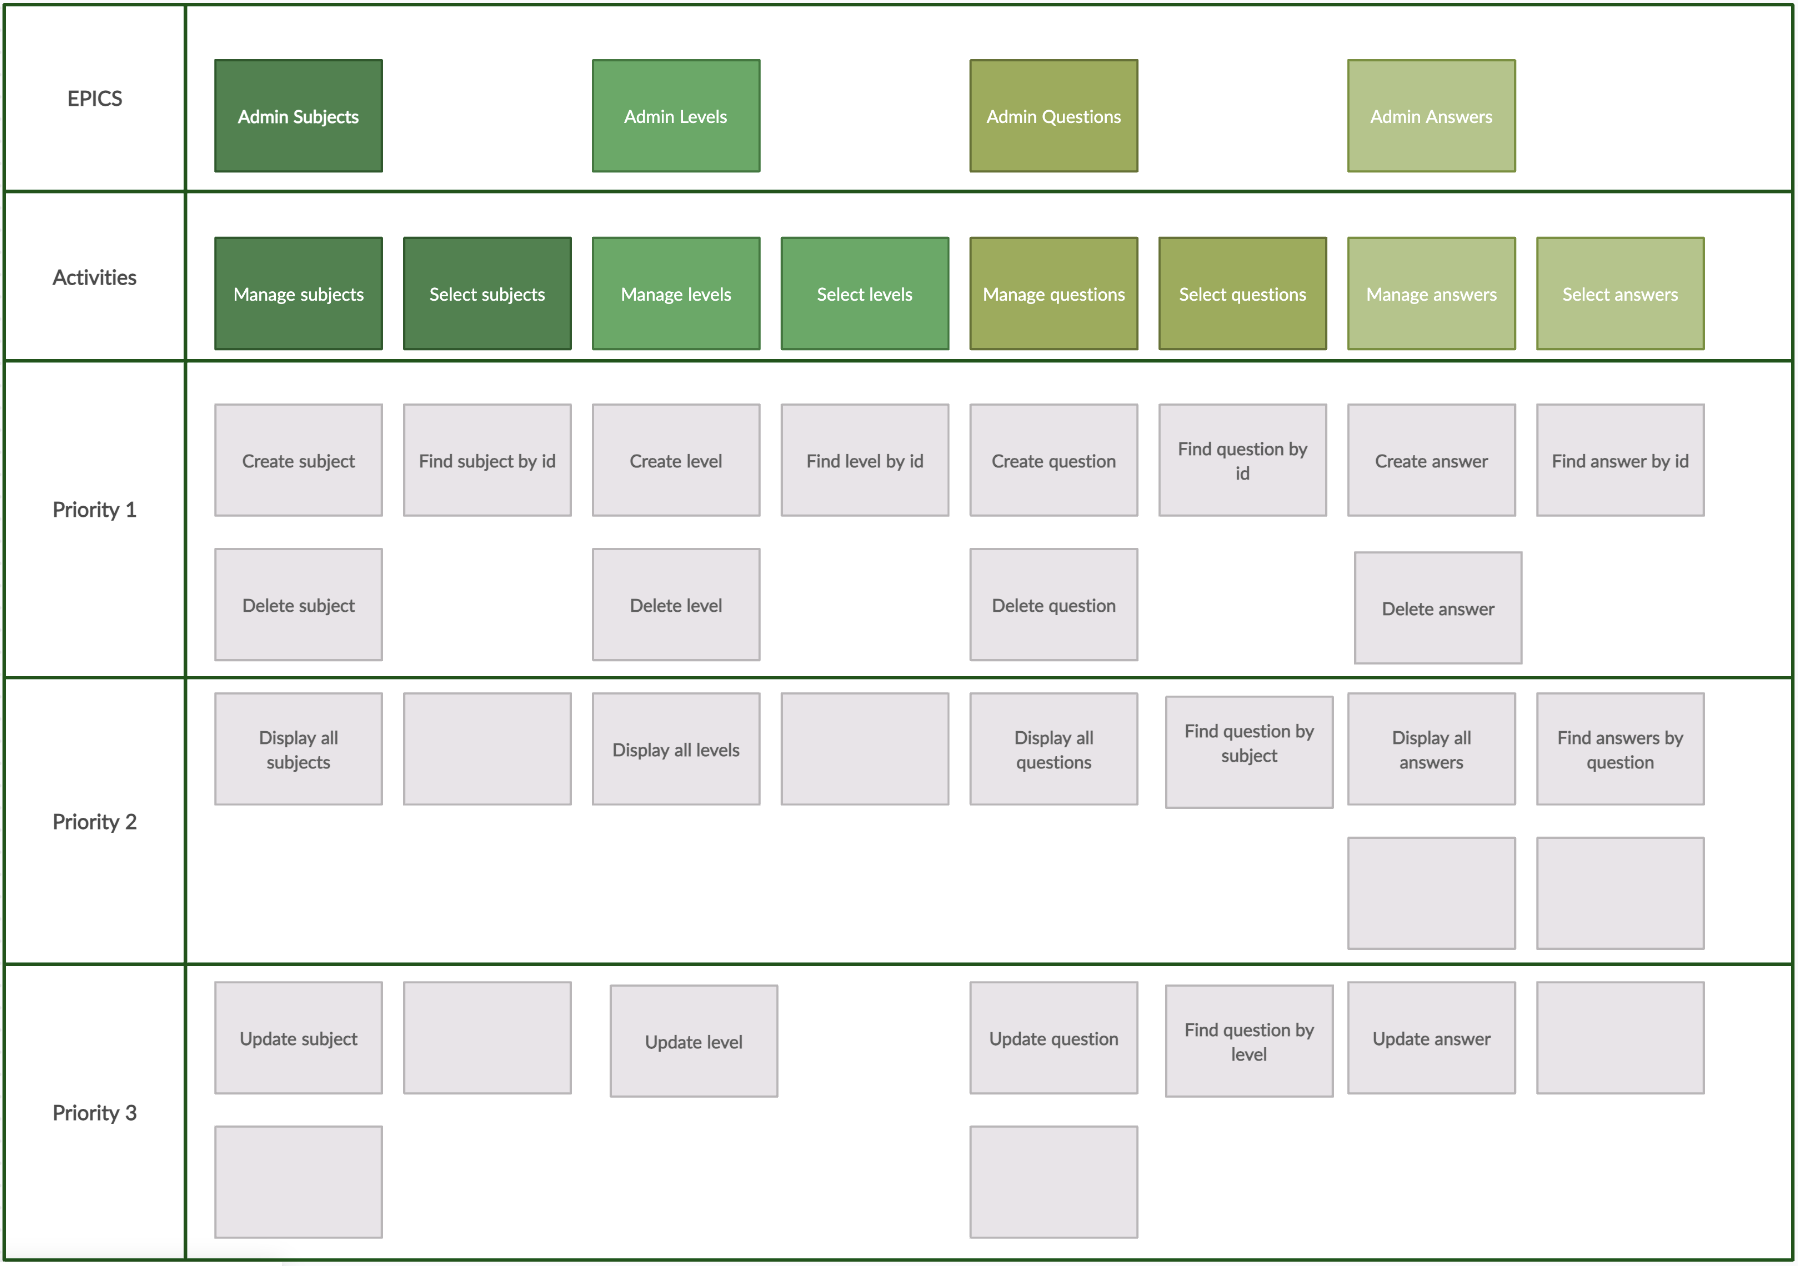
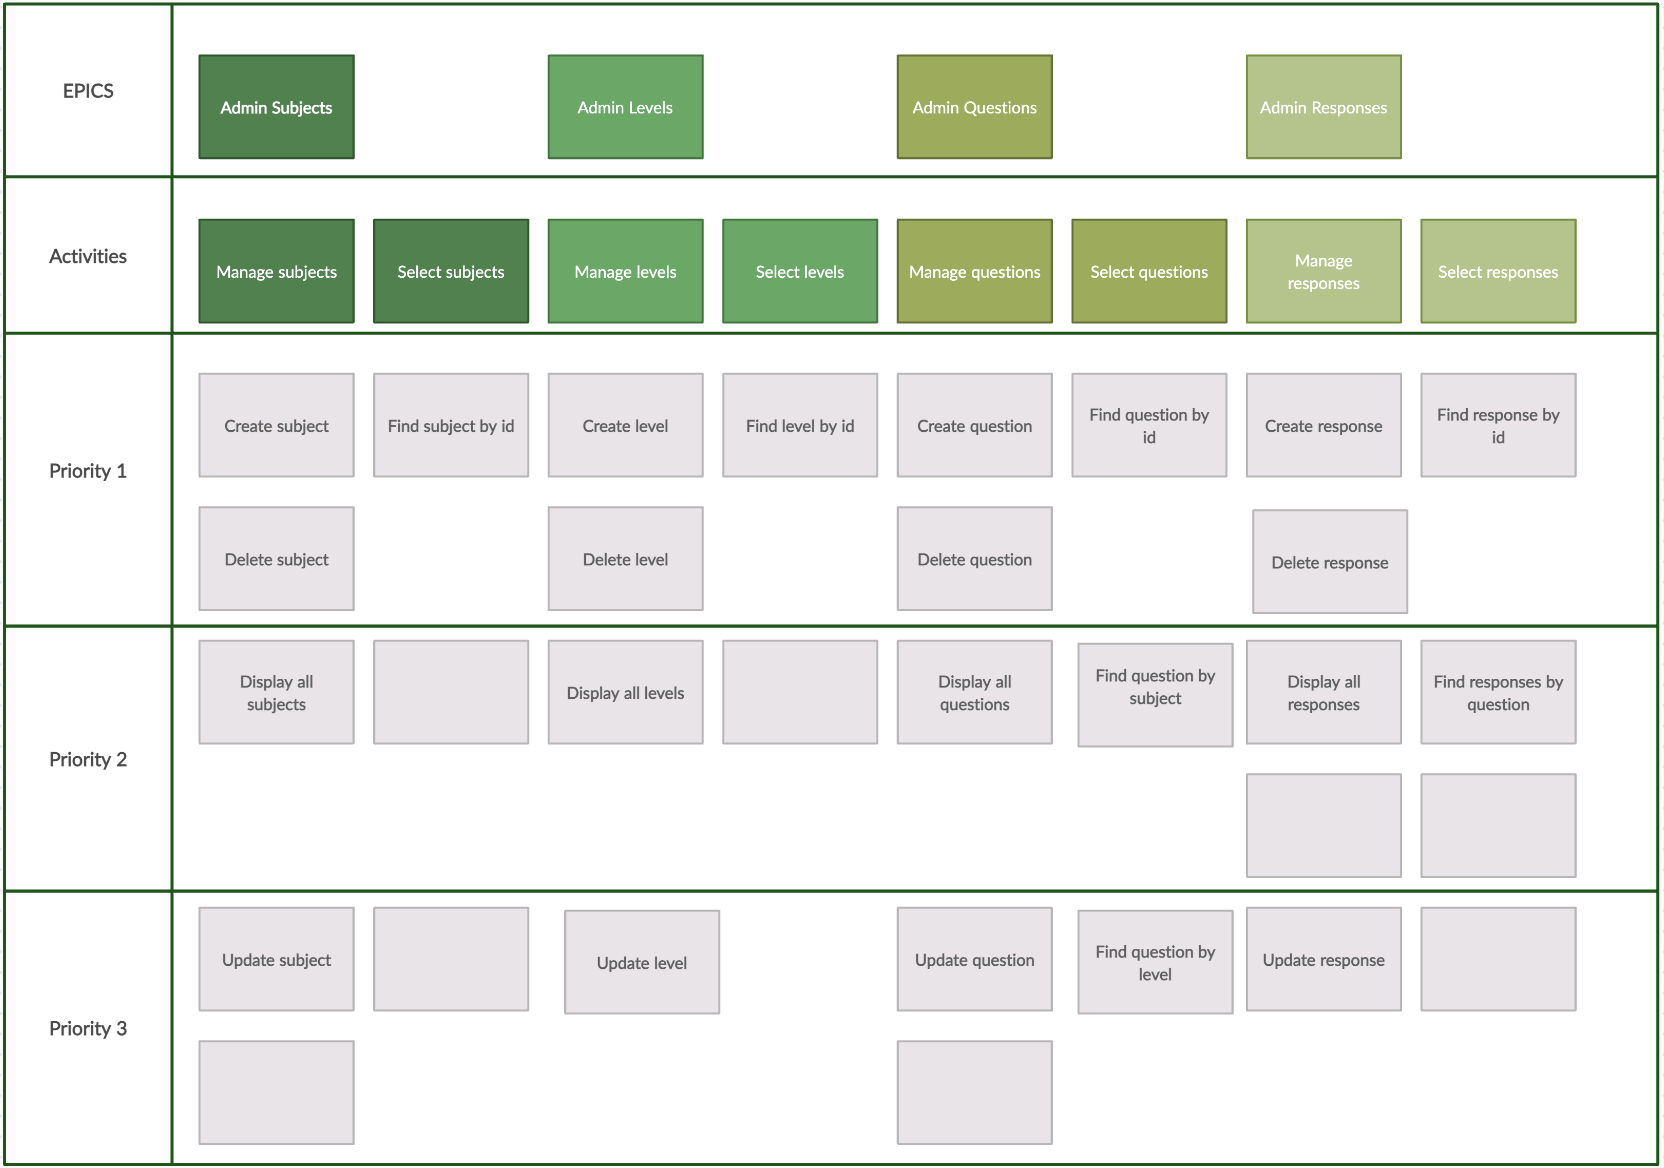
added all entities repositories and added modelMapper dependency and updated the story maps and the entities

diff --git a/src/main/java/com/youcode/youquiz/YouQuizApplication.java b/src/main/java/com/youcode/youquiz/YouQuizApplication.java
@@ -1,11 +1,17 @@
 package com.youcode.youquiz;
 
+import org.modelmapper.ModelMapper;
 import org.springframework.boot.SpringApplication;
 import org.springframework.boot.autoconfigure.SpringBootApplication;
+import org.springframework.context.annotation.Bean;
 
 @SpringBootApplication
 public class YouQuizApplication {
 
+    @Bean
+    public ModelMapper modelMapper() {
+        return new ModelMapper();
+    }
     public static void main(String[] args) {
         SpringApplication.run(YouQuizApplication.class, args);
     }

diff --git a/src/main/java/com/youcode/youquiz/models/entities/Validation.java b/src/main/java/com/youcode/youquiz/models/entities/Validation.java
@@ -21,14 +21,14 @@ public class Validation {
     @Column(nullable = false)
     private Double points;
 
-    @ManyToOne
+    @ManyToOne(fetch = FetchType.LAZY)
     @JoinColumn(name = "question_id")
     private Question question;
 
-    @ManyToOne
+    @ManyToOne(fetch = FetchType.LAZY)
     @JoinColumn(name = "response_id")
     private Response response;
 
-    @OneToMany(mappedBy = "validation")
+    @OneToMany(mappedBy = "validation", fetch = FetchType.LAZY)
     private List<Answer> answers;
 }

diff --git a/src/main/java/com/youcode/youquiz/models/entities/Subject.java b/src/main/java/com/youcode/youquiz/models/entities/Subject.java
@@ -21,13 +21,13 @@ public class Subject {
     @Column(nullable = false)
     private String title;
 
-    @ManyToOne
+    @ManyToOne(fetch = FetchType.LAZY)
     @JoinColumn(name = "parent")
     private Subject parent;
 
-    @OneToMany(mappedBy = "parent")
+    @OneToMany(mappedBy = "parent", fetch = FetchType.LAZY)
     private List<Subject> childs;
 
-    @OneToMany(mappedBy = "subject")
+    @OneToMany(mappedBy = "subject", fetch = FetchType.LAZY)
     private List<Question> questions;
 }

diff --git a/src/main/java/com/youcode/youquiz/models/entities/Question.java b/src/main/java/com/youcode/youquiz/models/entities/Question.java
@@ -38,11 +38,11 @@ public class Question implements Serializable {
     @OneToMany(mappedBy = "question", fetch = FetchType.LAZY)
     private List<TempoQuiz> tempoQuizzes;
 
-    @ManyToOne
+    @ManyToOne(fetch = FetchType.LAZY)
     @JoinColumn(name = "level_id")
     private Level level;
 
-    @OneToMany(mappedBy = "question")
+    @OneToMany(mappedBy = "question", fetch = FetchType.LAZY)
     private List<Media> medias;
 
     @OneToMany(mappedBy = "question", fetch = FetchType.LAZY)

diff --git a/src/main/java/com/youcode/youquiz/models/entities/TempoQuiz.java b/src/main/java/com/youcode/youquiz/models/entities/TempoQuiz.java
@@ -23,11 +23,11 @@ public class TempoQuiz implements Serializable {
     @Column(nullable = false)
     private Integer time;
 
-    @ManyToOne
+    @ManyToOne(fetch = FetchType.LAZY)
     @JoinColumn(name = "question_id")
     private Question question;
 
-    @ManyToOne
+    @ManyToOne(fetch = FetchType.LAZY)
     @JoinColumn(name = "quiz_id")
     private Quiz quiz;
 }

diff --git a/src/main/java/com/youcode/youquiz/repositories/TempoQuizRepository.java b/src/main/java/com/youcode/youquiz/repositories/TempoQuizRepository.java
@@ -1,0 +1,8 @@
+package com.youcode.youquiz.repositories;
+
+import com.youcode.youquiz.models.entities.TempoQuiz;
+import com.youcode.youquiz.utils.TempoID;
+import org.springframework.data.jpa.repository.JpaRepository;
+
+public interface TempoQuizRepository extends JpaRepository<TempoQuiz, TempoID> {
+}

diff --git a/src/main/java/com/youcode/youquiz/models/entities/Student.java b/src/main/java/com/youcode/youquiz/models/entities/Student.java
@@ -23,7 +23,7 @@ public class Student extends User{
     @Temporal(TemporalType.DATE)
     private LocalDate dateOfInscription;
 
-    @OneToMany(mappedBy = "student")
+    @OneToMany(mappedBy = "student", fetch = FetchType.LAZY)
     private List<AssignQuiz> assignQuizzes;
 
 }

diff --git a/src/main/java/com/youcode/youquiz/repositories/AssignQuizRepository.java b/src/main/java/com/youcode/youquiz/repositories/AssignQuizRepository.java
@@ -1,0 +1,7 @@
+package com.youcode.youquiz.repositories;
+
+import com.youcode.youquiz.models.entities.AssignQuiz;
+import org.springframework.data.jpa.repository.JpaRepository;
+
+public interface AssignQuizRepository extends JpaRepository<AssignQuiz, Long> {
+}

diff --git a/src/main/java/com/youcode/youquiz/repositories/ValidationRepository.java b/src/main/java/com/youcode/youquiz/repositories/ValidationRepository.java
@@ -1,0 +1,7 @@
+package com.youcode.youquiz.repositories;
+
+import com.youcode.youquiz.models.entities.Validation;
+import org.springframework.data.jpa.repository.JpaRepository;
+
+public interface ValidationRepository extends JpaRepository<Validation, Long> {
+}

diff --git a/src/main/java/com/youcode/youquiz/repositories/QuestionRepository.java b/src/main/java/com/youcode/youquiz/repositories/QuestionRepository.java
@@ -1,0 +1,7 @@
+package com.youcode.youquiz.repositories;
+
+import com.youcode.youquiz.models.entities.Question;
+import org.springframework.data.jpa.repository.JpaRepository;
+
+public interface QuestionRepository extends JpaRepository<Question, Long> {
+}

diff --git a/src/main/java/com/youcode/youquiz/repositories/ResponseRepository.java b/src/main/java/com/youcode/youquiz/repositories/ResponseRepository.java
@@ -1,0 +1,7 @@
+package com.youcode.youquiz.repositories;
+
+import com.youcode.youquiz.models.entities.Response;
+import org.springframework.data.jpa.repository.JpaRepository;
+
+public interface ResponseRepository extends JpaRepository<Response, Long> {
+}

diff --git a/src/main/java/com/youcode/youquiz/repositories/StudentRepository.java b/src/main/java/com/youcode/youquiz/repositories/StudentRepository.java
@@ -1,0 +1,7 @@
+package com.youcode.youquiz.repositories;
+
+import com.youcode.youquiz.models.entities.Student;
+import org.springframework.data.jpa.repository.JpaRepository;
+
+public interface StudentRepository extends JpaRepository<Student, Long> {
+}
